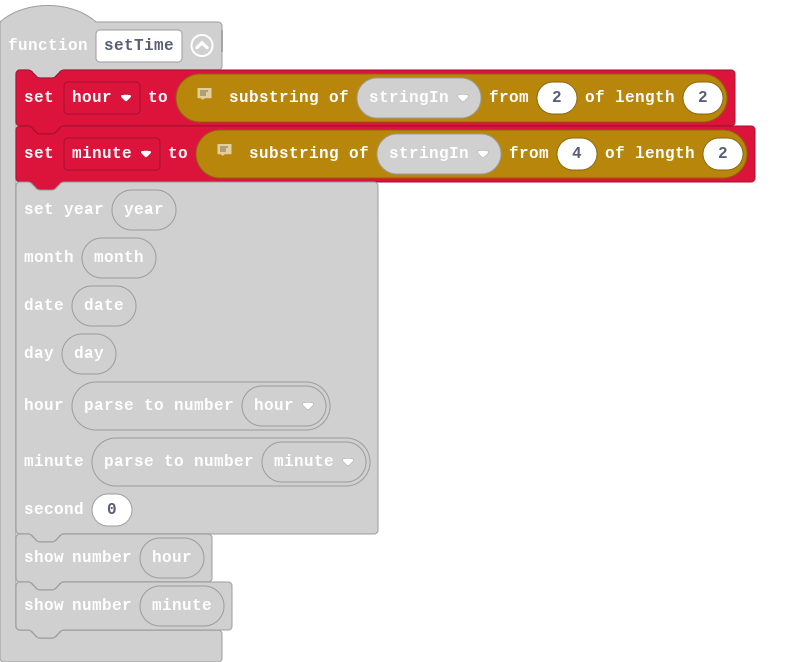
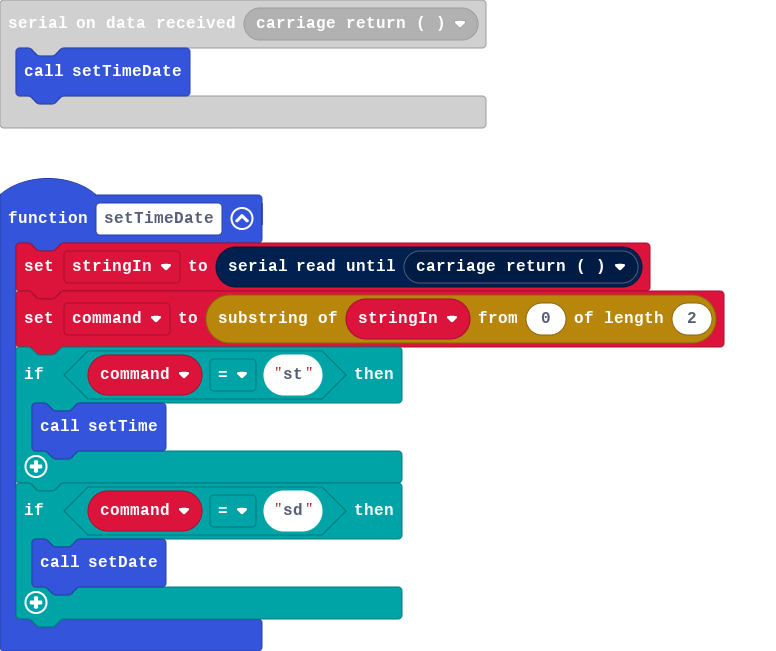
separated top level

diff --git a/main.ts b/main.ts
@@ -42,7 +42,7 @@ function setTime () {
     basic.showNumber(DS3231.hour())
     basic.showNumber(DS3231.minute())
 }
-serial.onDataReceived(serial.delimiters(Delimiters.CarriageReturn), function () {
+function setTimeDate () {
     stringIn = serial.readUntil(serial.delimiters(Delimiters.CarriageReturn))
     command = stringIn.substr(0, 2)
     if (command == "st") {
@@ -51,4 +51,7 @@ serial.onDataReceived(serial.delimiters(Delimiters.CarriageReturn), function () 
     if (command == "sd") {
         setDate()
     }
+}
+serial.onDataReceived(serial.delimiters(Delimiters.CarriageReturn), function () {
+    setTimeDate()
 })
